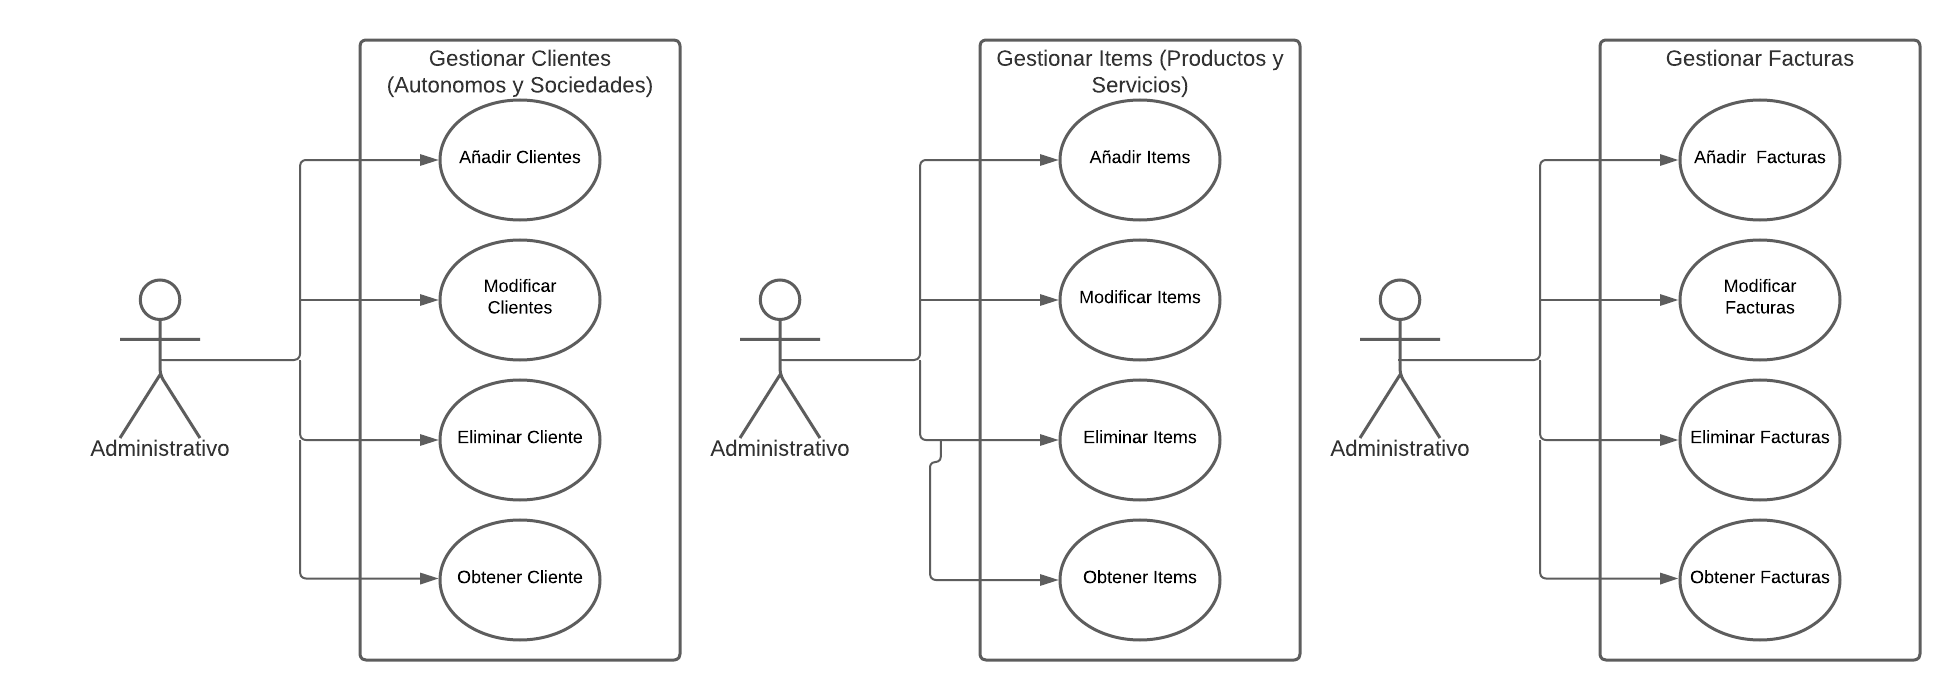
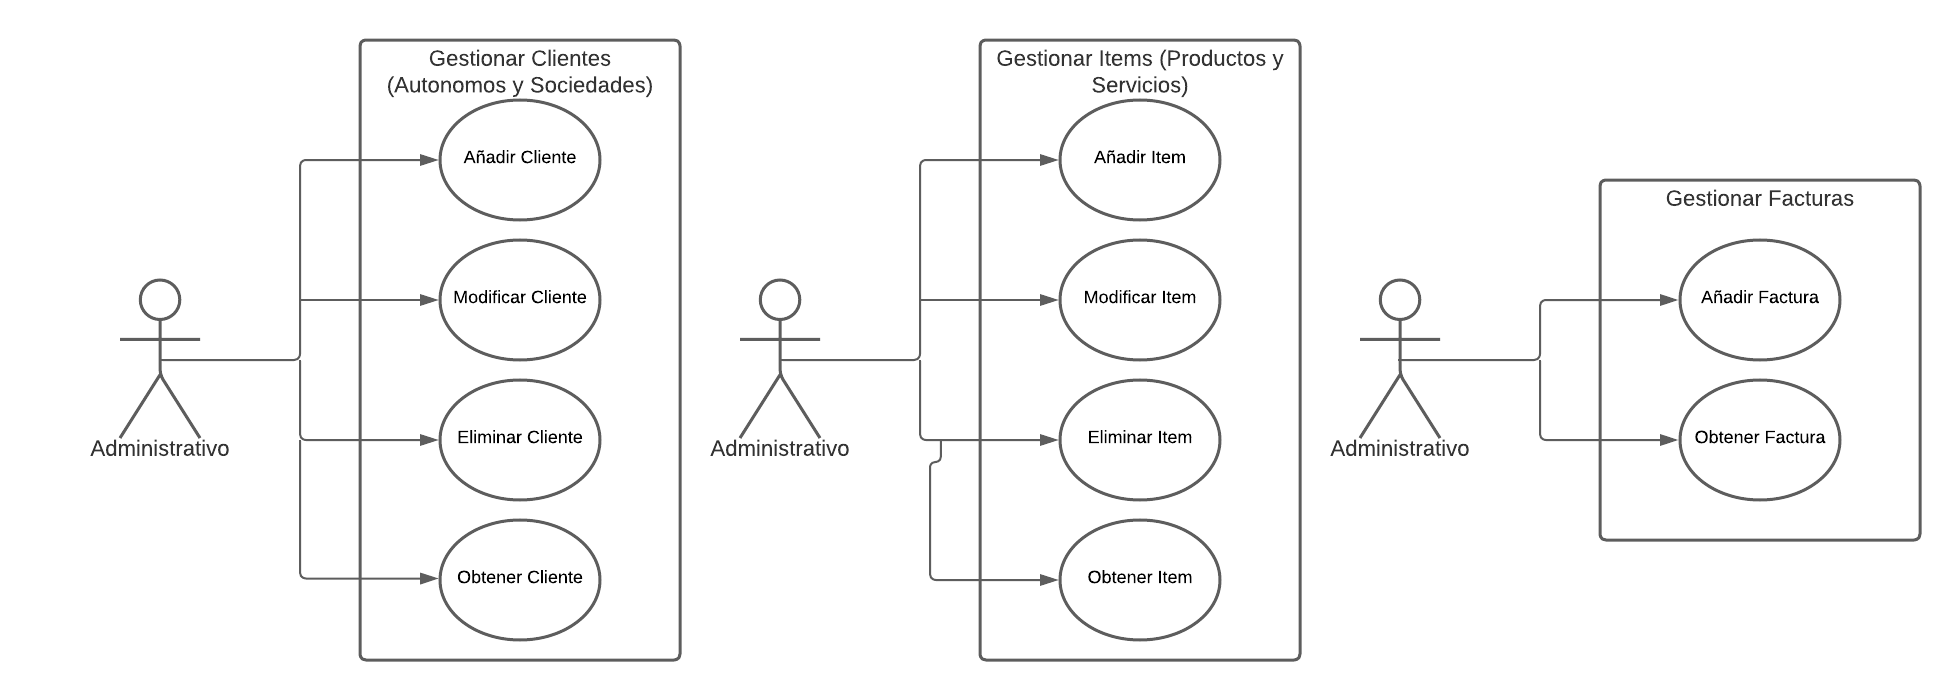
Casos de Uso

diff --git a/src/com/danielgararr/chispas/presentation/Main.java b/src/com/danielgararr/chispas/presentation/Main.java
@@ -1,12 +1,9 @@
 package com.danielgararr.chispas.presentation;
 
-import com.danielgararr.chispas.data.CustomerDataStore;
-import com.danielgararr.chispas.data.MemCustomerDataStore;
+import com.danielgararr.chispas.data.Customer.CustomerDataStore;
+import com.danielgararr.chispas.data.Customer.MemCustomerDataStore;
 import com.danielgararr.chispas.domain.models.*;
-import com.danielgararr.chispas.domain.usecase.AddCustomerUseCase;
-import com.danielgararr.chispas.domain.usecase.DeleteCustomerUseCase;
-import com.danielgararr.chispas.domain.usecase.GetCustomerUseCase;
-import com.danielgararr.chispas.domain.usecase.UpdateCustomerUseCase;
+import com.danielgararr.chispas.domain.usecase.Customer.AddCustomerUseCase;
 
 import java.util.Scanner;
 
@@ -131,7 +128,7 @@ public class Main {
         addCustomerUseCase.execute(autonomo);
         addCustomerUseCase.execute(sociedad);
 
-        GetCustomerUseCase getCustomerUseCase = new GetCustomerUseCase(customerDataStore);
+        /**GetCustomerUseCase getCustomerUseCase = new GetCustomerUseCase(customerDataStore);
         List<Cliente> customers = getCustomerUseCase.execute();
         for (int i = 0; i < customers.size(); i++) {
             printCliente(customers.get(i));
@@ -155,7 +152,6 @@ public class Main {
             printCliente(customers3.get(i));
         }
     }
-
     public static void printAutonomos(Autonomo autonomo) {
         System.out.println("Cod: " + autonomo.getId() + " Nombre: " + autonomo.getNombre());
     }
@@ -166,5 +162,5 @@ public class Main {
 
     public static void printCliente(Cliente cliente) {
         System.out.println("Cod: " + cliente.getId() + " Nombre: " + cliente.getNombre() + " Email: " + cliente.getEmail());
-    }
+    }**/
 }

diff --git a/src/com/danielgararr/chispas/domain/usecase/Customer/DeleteCustomerUseCase.java b/src/com/danielgararr/chispas/domain/usecase/Customer/DeleteCustomerUseCase.java
@@ -1,12 +1,11 @@
-package com.danielgararr.chispas.domain.usecase;
+package com.danielgararr.chispas.domain.usecase.Customer;
 
-import com.danielgararr.chispas.data.CustomerDataStore;
 import com.danielgararr.chispas.domain.models.Cliente;
 
 public class DeleteCustomerUseCase {
-    private CustomerDataStore customerDataStore;
+    private ItemDataStore customerDataStore;
 
-    public DeleteCustomerUseCase(CustomerDataStore customerDataStore){
+    public DeleteCustomerUseCase(ItemDataStore customerDataStore){
         this.customerDataStore = customerDataStore;
     }
 

diff --git a/src/com/danielgararr/chispas/domain/usecase/Customer/UpdateCustomerUseCase.java b/src/com/danielgararr/chispas/domain/usecase/Customer/UpdateCustomerUseCase.java
@@ -1,12 +1,11 @@
-package com.danielgararr.chispas.domain.usecase;
+package com.danielgararr.chispas.domain.usecase.Customer;
 
-import com.danielgararr.chispas.data.CustomerDataStore;
 import com.danielgararr.chispas.domain.models.Cliente;
 
 public class UpdateCustomerUseCase {
-    private CustomerDataStore customerDataStore;
+    private ItemDataStore customerDataStore;
 
-    public UpdateCustomerUseCase(CustomerDataStore customerDataStore){
+    public UpdateCustomerUseCase(ItemDataStore customerDataStore){
         this.customerDataStore = customerDataStore;
     }
 

diff --git a/src/com/danielgararr/chispas/domain/usecase/Customer/AddCustomerUseCase.java b/src/com/danielgararr/chispas/domain/usecase/Customer/AddCustomerUseCase.java
@@ -1,12 +1,11 @@
-package com.danielgararr.chispas.domain.usecase;
+package com.danielgararr.chispas.domain.usecase.Customer;
 
-import com.danielgararr.chispas.data.CustomerDataStore;
 import com.danielgararr.chispas.domain.models.Cliente;
 
 public class AddCustomerUseCase {
-    private CustomerDataStore customerDataStore;
+    private ItemDataStore customerDataStore;
 
-    public AddCustomerUseCase(CustomerDataStore customerDataStore){
+    public AddCustomerUseCase(ItemDataStore customerDataStore){
         this.customerDataStore = customerDataStore;
     }
 

diff --git a/src/com/danielgararr/chispas/domain/usecase/Customer/GetCustomerUseCase.java b/src/com/danielgararr/chispas/domain/usecase/Customer/GetCustomerUseCase.java
@@ -1,12 +1,11 @@
-package com.danielgararr.chispas.domain.usecase;
+package com.danielgararr.chispas.domain.usecase.Customer;
 
-import com.danielgararr.chispas.data.CustomerDataStore;
 import com.danielgararr.chispas.domain.models.Cliente;
 
 public class GetCustomerUseCase {
-    private CustomerDataStore customerDataStore;
+    private ItemDataStore customerDataStore;
 
-    public GetCustomerUseCase(CustomerDataStore customerDataStore){
+    public GetCustomerUseCase(ItemDataStore customerDataStore){
         this.customerDataStore = customerDataStore;
     }
 

diff --git a/src/com/danielgararr/chispas/data/Item/MemItemDataStore.java b/src/com/danielgararr/chispas/data/Item/MemItemDataStore.java
@@ -1,0 +1,26 @@
+package com.danielgararr.chispas.data.Item;
+
+import com.danielgararr.chispas.domain.models.ProductoServicio;
+
+public class MemItemDataStore implements ItemDataStore {
+
+    @Override
+    public void deleteItem(ProductoServicio productoServicio) {
+
+    }
+
+    @Override
+    public void GetItem(ProductoServicio productoServicio) {
+
+    }
+
+    @Override
+    public void addItem(ProductoServicio productoServicio) {
+
+    }
+
+    @Override
+    public void updateItem(ProductoServicio productoServicio) {
+
+    }
+}

diff --git a/src/com/danielgararr/chispas/domain/usecase/Item/UpdateItemUseCase.java b/src/com/danielgararr/chispas/domain/usecase/Item/UpdateItemUseCase.java
@@ -1,0 +1,16 @@
+package com.danielgararr.chispas.domain.usecase.Item;
+
+import com.danielgararr.chispas.domain.models.ProductoServicio;
+
+public class UpdateItemUseCase {
+    private final ItemDataStore itemDataStore;
+    private ItemDataStore customerDataStore;
+
+    public UpdateItemUseCase(ItemDataStore itemDataStore){
+        this.itemDataStore = itemDataStore;
+    }
+
+    public void execute(ProductoServicio productoServicio){
+        customerDataStore.updateItem(productoServicio);
+    }
+}

diff --git a/src/com/danielgararr/chispas/domain/usecase/Item/DeleteItemUseCase.java b/src/com/danielgararr/chispas/domain/usecase/Item/DeleteItemUseCase.java
@@ -1,0 +1,15 @@
+package com.danielgararr.chispas.domain.usecase.Item;
+
+import com.danielgararr.chispas.domain.models.ProductoServicio;
+
+public class DeleteItemUseCase {
+    private ItemDataStore itemDataStore;
+
+    public DeleteItemUseCase(ItemDataStore itemDataStore){
+        this.itemDataStore = itemDataStore;
+    }
+
+    public void execute(ProductoServicio productoServicio){
+        itemDataStore.deleteItem(productoServicio);
+    }
+}

diff --git a/src/com/danielgararr/chispas/domain/usecase/Item/AddItemUseCase.java b/src/com/danielgararr/chispas/domain/usecase/Item/AddItemUseCase.java
@@ -1,0 +1,15 @@
+package com.danielgararr.chispas.domain.usecase.Item;
+
+import com.danielgararr.chispas.domain.models.ProductoServicio;
+
+public class AddItemUseCase {
+    private ItemDataStore itemDataStore;
+
+    public AddItemUseCase(ItemDataStore itemDataStore){
+        this.itemDataStore = itemDataStore;
+    }
+
+    public void execute(ProductoServicio productoServicio){
+        itemDataStore.addItem(productoServicio);
+    }
+}

diff --git a/src/com/danielgararr/chispas/domain/usecase/Item/GetItemUseCase.java b/src/com/danielgararr/chispas/domain/usecase/Item/GetItemUseCase.java
@@ -1,0 +1,15 @@
+package com.danielgararr.chispas.domain.usecase.Item;
+
+import com.danielgararr.chispas.domain.models.ProductoServicio;
+
+public class GetItemUseCase {
+    private ItemDataStore itemDataStore;
+
+    public GetItemUseCase(ItemDataStore ItemDataStore){
+        this.itemDataStore = itemDataStore;
+    }
+
+    public void execute(ProductoServicio productoServicio){
+        itemDataStore.GetItem(productoServicio);
+    }
+}

diff --git a/src/com/danielgararr/chispas/data/Item/ItemDataStore.java b/src/com/danielgararr/chispas/data/Item/ItemDataStore.java
@@ -1,0 +1,13 @@
+package com.danielgararr.chispas.data.Item;
+
+import com.danielgararr.chispas.domain.models.ProductoServicio;
+
+public interface ItemDataStore {
+    void deleteItem(ProductoServicio productoServicio);
+
+    void GetItem(ProductoServicio productoServicio);
+
+    void addItem(ProductoServicio productoServicio);
+
+    void updateItem(ProductoServicio productoServicio);
+}

diff --git a/src/com/danielgararr/chispas/data/Bill/MemBillDataStore.java b/src/com/danielgararr/chispas/data/Bill/MemBillDataStore.java
@@ -1,0 +1,16 @@
+package com.danielgararr.chispas.data.Bill;
+
+import com.danielgararr.chispas.domain.models.Factura;
+
+public class MemBillDataStore implements BillDataStore {
+
+    @Override
+    public void GetBill(Factura factura) {
+
+    }
+
+    @Override
+    public void addBill(Factura factura) {
+
+    }
+}
